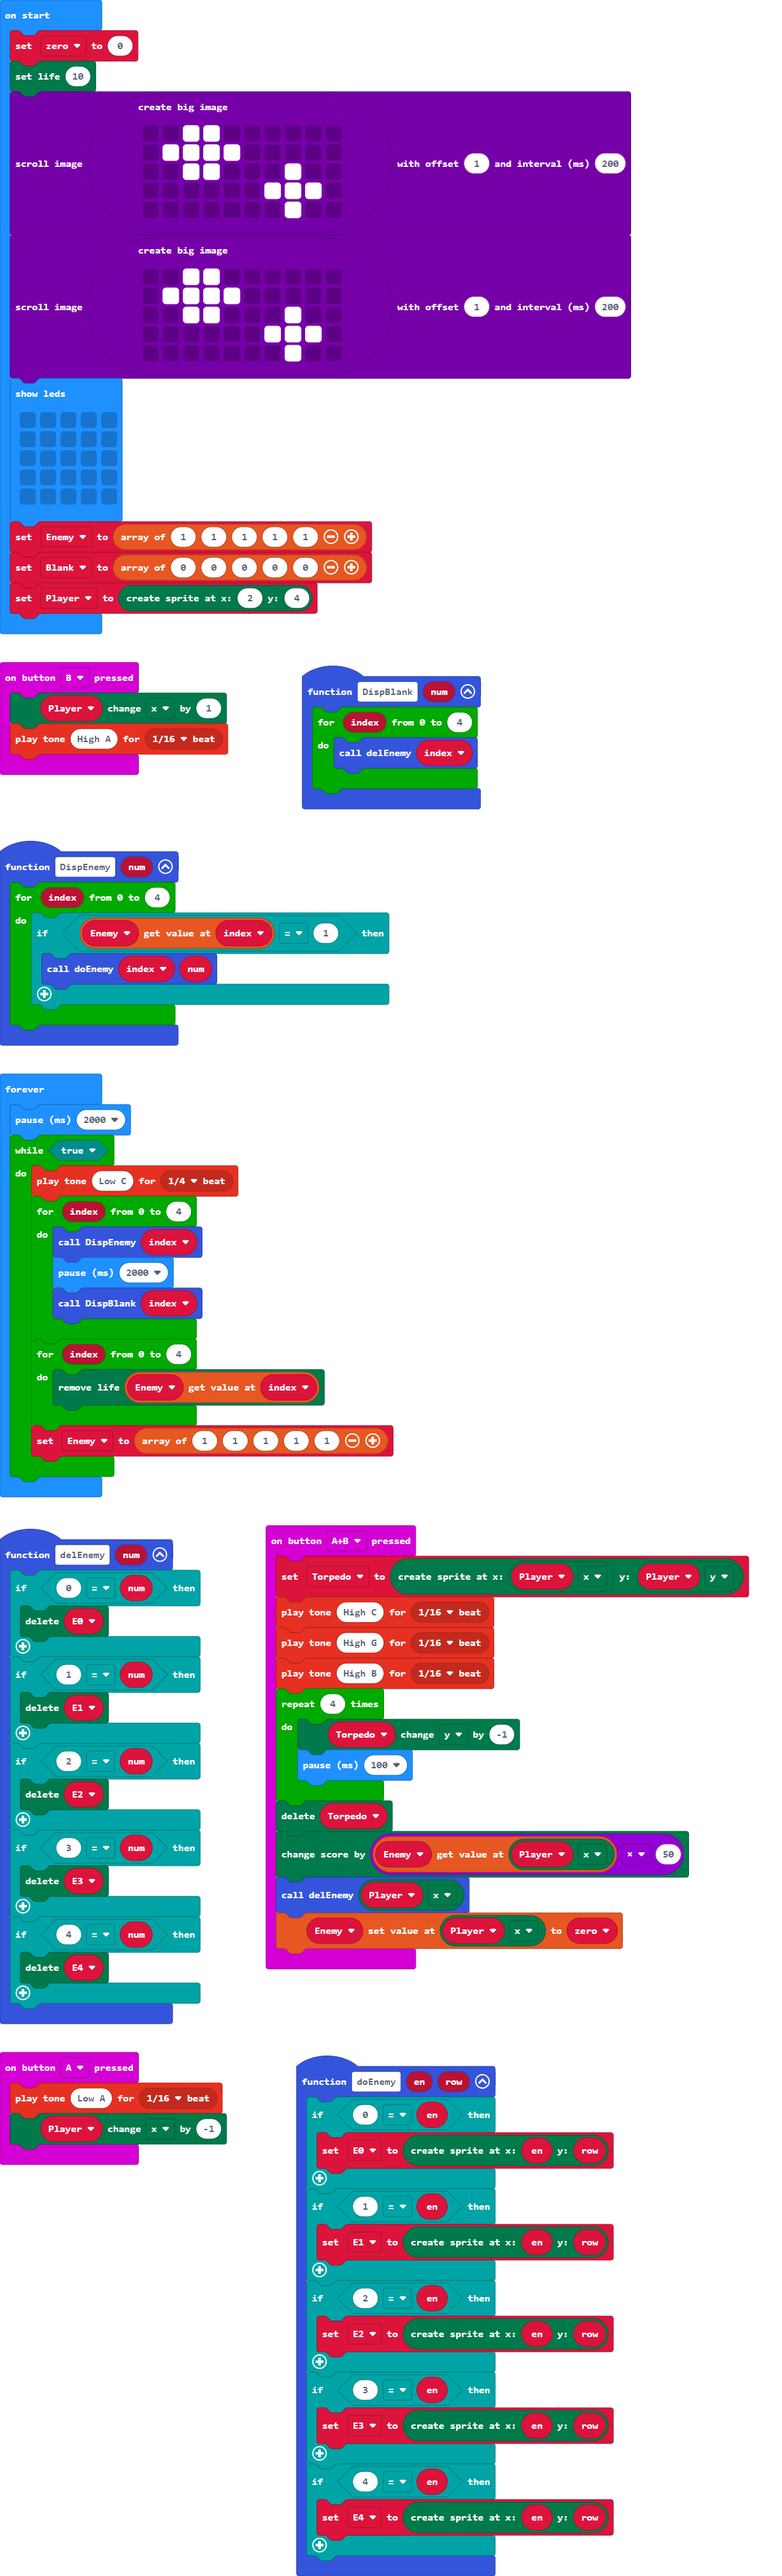
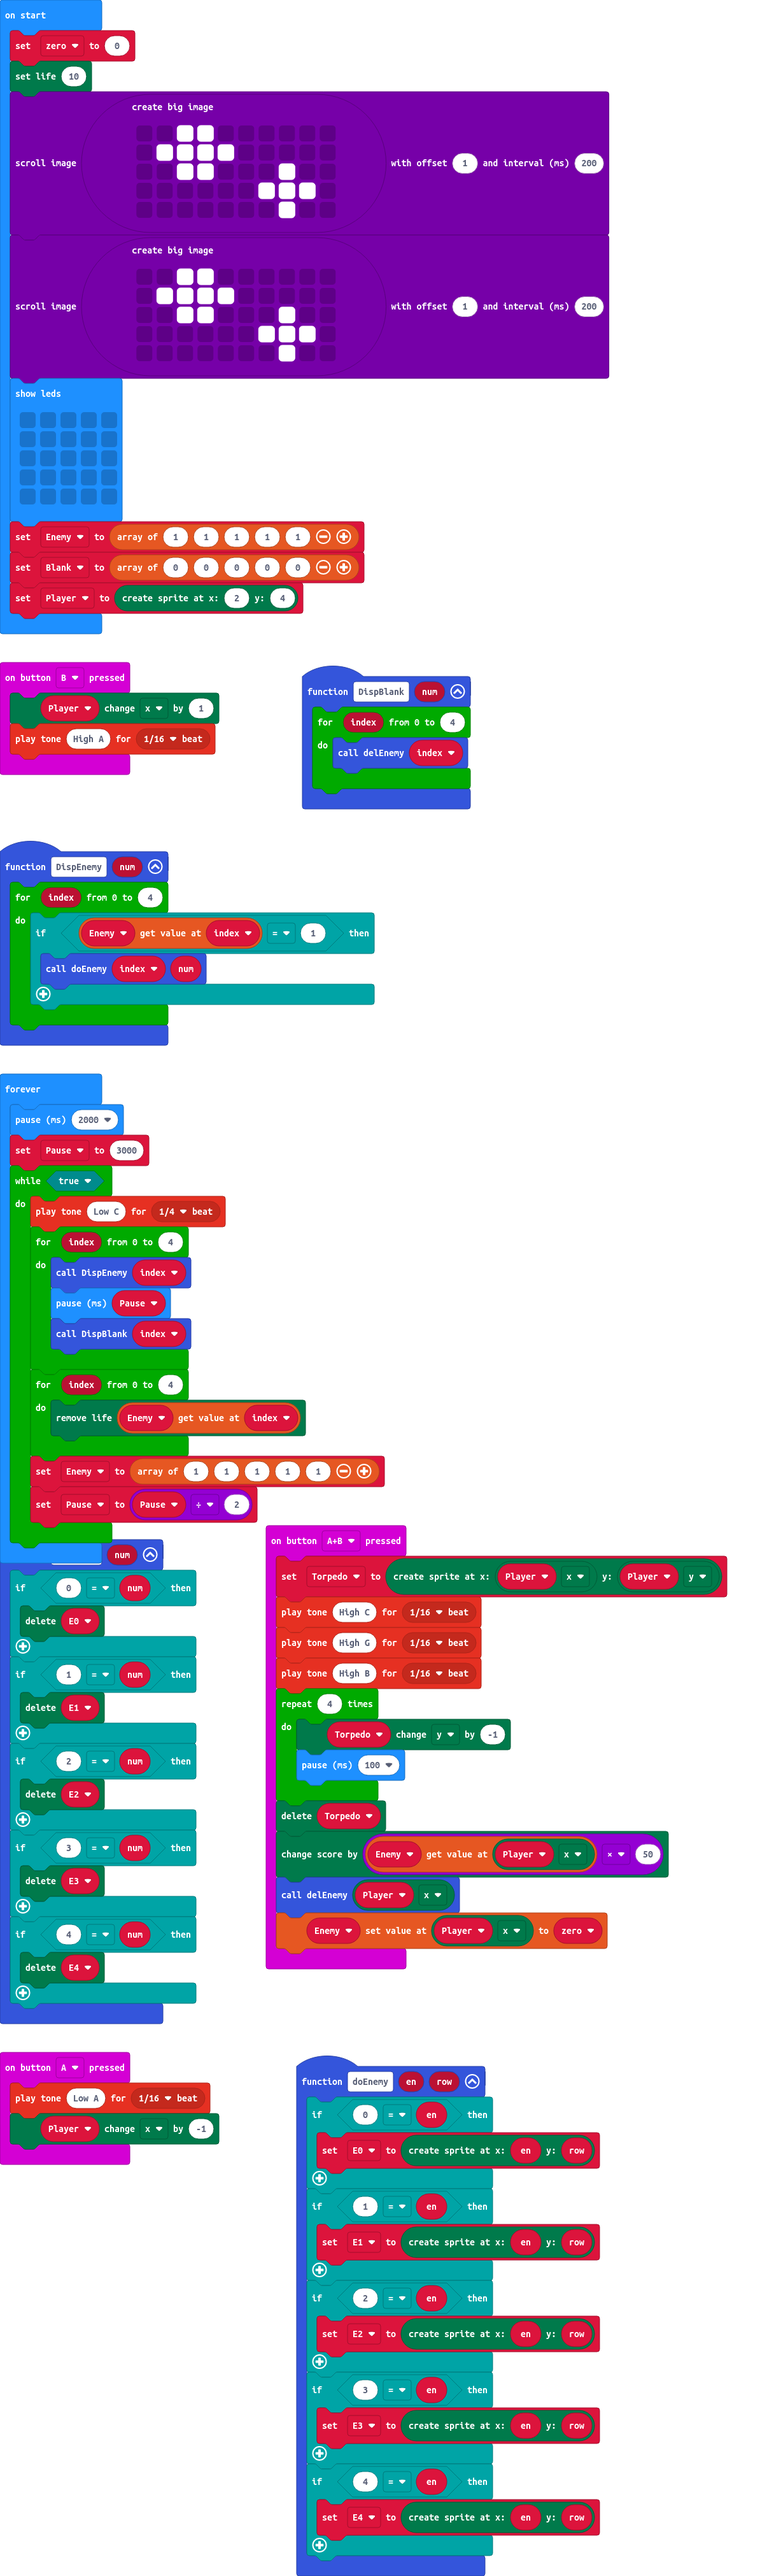
Update main.blocks, main.ts

diff --git a/main.ts b/main.ts
@@ -66,6 +66,7 @@ function DispEnemy (num: number) {
         }
     }
 }
+let Pause = 0
 let Torpedo: game.LedSprite = null
 let E4: game.LedSprite = null
 let E3: game.LedSprite = null
@@ -103,16 +104,18 @@ let Blank = [0, 0, 0, 0, 0]
 Player = game.createSprite(2, 4)
 basic.forever(function () {
     basic.pause(2000)
+    Pause = 3000
     while (true) {
         music.playTone(131, music.beat(BeatFraction.Quarter))
         for (let index = 0; index <= 4; index++) {
             DispEnemy(index)
-            basic.pause(2000)
+            basic.pause(Pause)
             DispBlank(index)
         }
         for (let index = 0; index <= 4; index++) {
             game.removeLife(Enemy[index])
         }
         Enemy = [1, 1, 1, 1, 1]
+        Pause = Pause / 2
     }
 })
